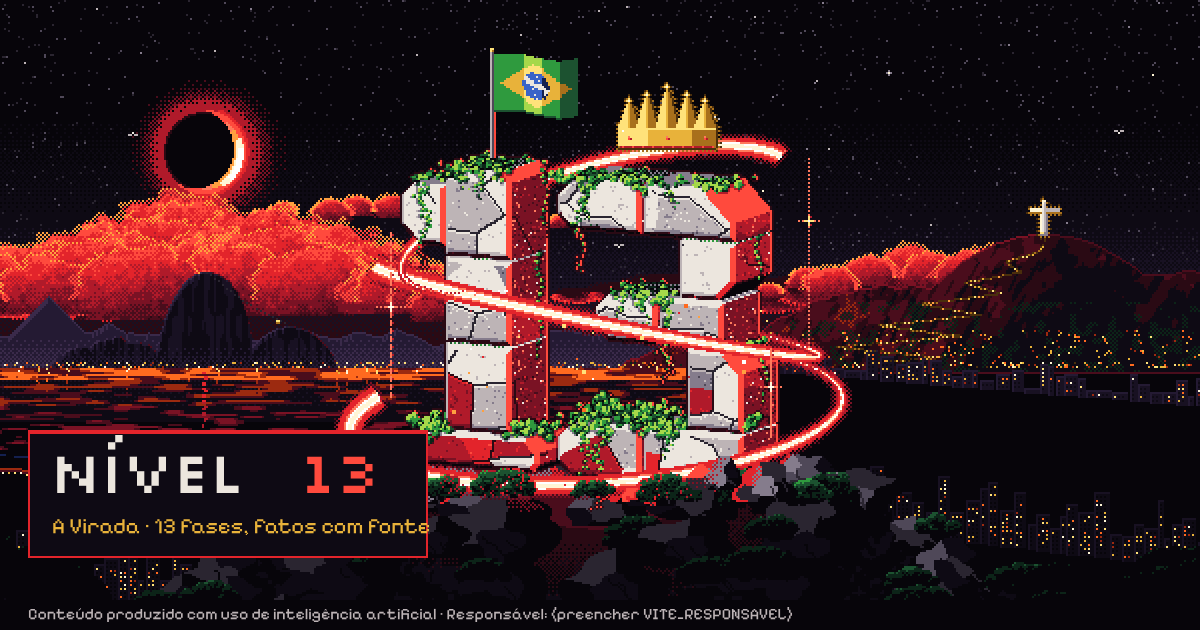
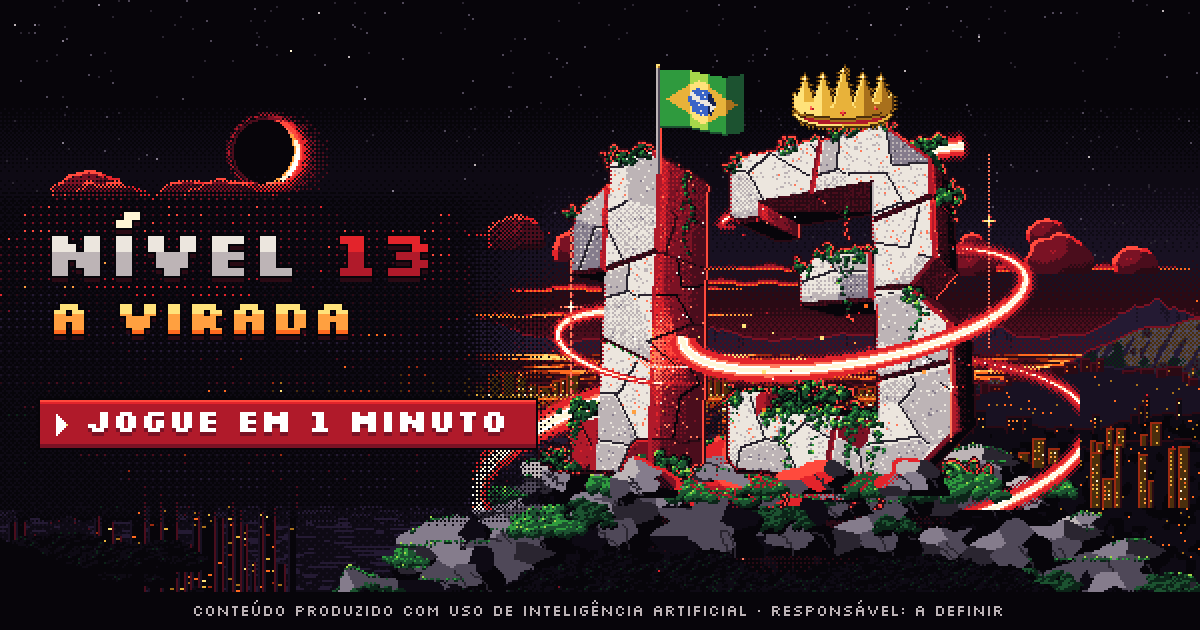
Prévia do link (og.png) com o 13 final, título, convite e rodapé legal; scripts para regenerar
Claude-Session: https://claude.ai/code/session_0165ZqKdQ2bY4744cygyd8X8

diff --git a/src/ui/install/copy.ts b/src/ui/install/copy.ts
@@ -20,8 +20,8 @@ const DONE_HINT = 'O 13 aparece entre os seus apps.'
 export const COPY: Record<Variant, SheetCopy> = {
   ios: {
     eyebrow: 'Jogue como app',
-    title: 'Instale o Nível 13',
-    lede: 'Três toques e o jogo abre da tela inicial, em tela cheia.',
+    title: 'Instale o 13',
+    lede: 'Três toques e o 13 abre da tela inicial.',
     steps: [
       { text: 'Toque em Compartilhar', icon: 'share', hint: 'Na barra do navegador, embaixo ou no alto.' },
       { text: 'Toque em Adicionar à Tela de Início', icon: 'add', hint: 'Role a lista se não aparecer.' },
@@ -30,8 +30,8 @@ export const COPY: Record<Variant, SheetCopy> = {
   },
   ios26: {
     eyebrow: 'Jogue como app',
-    title: 'Instale o Nível 13',
-    lede: 'Três toques e o jogo abre da tela inicial, em tela cheia.',
+    title: 'Instale o 13',
+    lede: 'Três toques e o 13 abre da tela inicial.',
     steps: [
       { text: 'Toque em ⋯ e em Compartilhar', icon: 'share', hint: 'O ⋯ fica ao lado do endereço.' },
       { text: 'Toque em Adicionar à Tela de Início', icon: 'add', hint: 'Role a lista se não aparecer.' },
@@ -40,8 +40,8 @@ export const COPY: Record<Variant, SheetCopy> = {
   },
   android: {
     eyebrow: 'Jogue como app',
-    title: 'Instale o Nível 13',
-    lede: 'Três toques e o jogo abre da tela inicial, em tela cheia.',
+    title: 'Instale o 13',
+    lede: 'Três toques e o 13 abre da tela inicial.',
     steps: [
       { text: 'Toque no menu do navegador', icon: 'kebab', hint: 'Os três pontinhos, no alto à direita.' },
       { text: 'Toque em Instalar app', icon: 'add', hint: 'Ou em Adicionar à tela inicial.' },
@@ -51,7 +51,7 @@ export const COPY: Record<Variant, SheetCopy> = {
   'inapp-ios': {
     eyebrow: 'Primeiro passo',
     title: 'Abra no Safari',
-    lede: 'Dentro do WhatsApp ou do Instagram não dá para instalar.',
+    lede: 'Dentro do WhatsApp ou Instagram não dá para instalar.',
     steps: [
       { text: 'Toque no menu do app', icon: 'meatball', hint: 'Os três pontinhos, no alto.' },
       { text: 'Toque em Abrir no Safari', icon: 'compass', hint: 'Ou em Abrir no navegador.' },
@@ -61,7 +61,7 @@ export const COPY: Record<Variant, SheetCopy> = {
   'inapp-android': {
     eyebrow: 'Primeiro passo',
     title: 'Abra no Chrome',
-    lede: 'Dentro do WhatsApp ou do Instagram não dá para instalar.',
+    lede: 'Dentro do WhatsApp ou Instagram não dá para instalar.',
     steps: [
       { text: 'Toque no menu do app', icon: 'kebab', hint: 'Os três pontinhos, no alto.' },
       { text: 'Toque em Abrir no Chrome', icon: 'compass', hint: 'Ou em Abrir no navegador.' },

diff --git a/scripts/make-og.py b/scripts/make-og.py
@@ -1,0 +1,170 @@
+#!/usr/bin/env python3
+"""Compõe public/og.png (1200×630, prévia do link no WhatsApp) em pixel nativo.
+
+Entrada: um still da cena do título gerado por renderHeroStill (src/scene) em 1560×630, que sai
+ampliado ×2. Para gerar o still com o dev server rodando (pnpm dev):
+    node scripts/og-still.cjs /tmp/still-1560.png
+Depois:
+    python3 scripts/make-og.py /tmp/still-1560.png            (escreve public/og.png)
+    python3 scripts/make-og.py /tmp/still-1560.png --out X.png
+
+A composição é feita na grade lógica (600×315): recorte com o 13 à direita do centro, painel
+escuro pontilhado atrás do texto (nada mais claro que night atrás de interface), título em
+Silkscreen sem antialias, CTA em faixa vermelha com ▶ e rodapé com o rótulo de IA e o responsável
+(o texto exato de CONFIG.aiLabel e responsavelText() com VITE_RESPONSAVEL). Sai ×2 com vizinho
+mais próximo. Só cores de src/lib/palette.ts.
+"""
+
+from __future__ import annotations
+
+import argparse
+import pathlib
+import re
+
+from PIL import Image, ImageDraw, ImageFont
+
+ROOT = pathlib.Path(__file__).resolve().parent.parent
+FONT = ROOT / 'node_modules/@fontsource/silkscreen/files'
+
+# Texto legal: o mesmo que o site mostra (src/config.ts) com VITE_RESPONSAVEL da Vercel.
+RESPONSAVEL = 'a definir'
+
+
+def load_palette():
+    src = (ROOT / 'src/lib/palette.ts').read_text()
+    block = src.split('export const PALETTE = {', 1)[1].split('}', 1)[0]
+    return {k: tuple(int(h[i:i + 2], 16) for i in (0, 2, 4)) for k, h in re.findall(r'(\w+):\s*0x([0-9a-fA-F]{6})', block)}
+
+
+def ai_label():
+    src = (ROOT / 'src/config.ts').read_text()
+    return re.search(r"aiLabel:\s*'([^']+)'", src).group(1)
+
+
+PAL = load_palette()
+BAYER4 = [[0, 8, 2, 10], [12, 4, 14, 6], [3, 11, 1, 9], [15, 7, 13, 5]]
+
+
+def bayer(x, y):
+    return (BAYER4[y & 3][x & 3] + 0.5) / 16
+
+
+def text_mask(txt, size, bold=True):
+    """Máscara 1-bit do texto (Silkscreen em múltiplo de 8 = pixels inteiros)."""
+    ft = ImageFont.truetype(str(FONT / f'silkscreen-latin-{700 if bold else 400}-normal.woff'), size)
+    l, t, r, b = ImageDraw.Draw(Image.new('1', (1, 1))).textbbox((0, 0), txt, font=ft)
+    im = Image.new('1', (r - l + 2, b - t + 2), 0)
+    d = ImageDraw.Draw(im)
+    d.fontmode = '1'
+    d.text((-l, -t), txt, font=ft, fill=1)
+    return im
+
+
+def stamp(px, W, H, m, x0, y0, color, outline='void', shadow='blood0', sh=1):
+    """Texto com sombra de sh px para baixo e contorno de 1 px (vizinhança 8 nos cantos)."""
+    w, h = m.size
+    mp = m.load()
+    on = {(x, y) for y in range(h) for x in range(w) if mp[x, y]}
+    if shadow:
+        for x, y in on:
+            for k in range(1, sh + 1):
+                X, Y = x0 + x, y0 + y + k + 1
+                if 0 <= X < W and 0 <= Y < H:
+                    px[X, Y] = PAL[shadow]
+    if outline:
+        for x, y in on:
+            for dx in (-1, 0, 1):
+                for dy in (-1, 0, 1):
+                    if (x + dx, y + dy) not in on:
+                        X, Y = x0 + x + dx, y0 + y + dy
+                        if 0 <= X < W and 0 <= Y < H:
+                            px[X, Y] = PAL[outline]
+    for x, y in on:
+        c = color(x, y) if callable(color) else color
+        px[x0 + x, y0 + y] = PAL[c]
+
+
+def compose(still: Image.Image) -> Image.Image:
+    s = still.convert('RGB')
+    # o still sai ×2: volta para a grade lógica sem perda (pega 1 de cada 2)
+    s = s.resize((s.width // 2, s.height // 2), Image.NEAREST)
+    W, H = 600, 315
+    im = s.crop((0, 0, W, H))
+    px = im.load()
+
+    # painel escuro atrás do texto: pontilhado void/night que some para a direita e para baixo
+    for y in range(H):
+        for x in range(W):
+            fx = 1.0 if x < 230 else max(0.0, 1 - (x - 230) / 50)
+            fy = 1.0 if 100 <= y <= 250 else max(0.0, 1 - min(abs(y - 100), abs(y - 250)) / 14)
+            k = fx * fy
+            if k > 0 and bayer(x, y) < k * 0.92:
+                px[x, y] = PAL['void'] if bayer(x + 1, y + 2) < 0.6 else PAL['night']
+
+    # título
+    # uma máscara só para manter a linha de base; o '13' é colorido pela coluna
+    m1 = text_mask('NÍVEL 13', 32)
+    ft = ImageFont.truetype(str(FONT / 'silkscreen-latin-700-normal.woff'), 32)
+    cut = round(ImageDraw.Draw(Image.new('1', (1, 1))).textlength('NÍVEL ', font=ft))
+    top = m1.size[1] - 32  # altura do acento acima das maiúsculas
+
+    def title(x, y):
+        yy = y - top
+        if x >= cut - 2:
+            return 'redHot' if yy < 6 else 'red' if yy < 18 else 'crimson'
+        return 'sparkle' if yy < 6 else 'stoneHi' if yy < 18 else 'stone3'
+
+    x0, y0 = 22, 108
+    stamp(px, W, H, m1, x0, y0 - top, title, sh=2)
+    m2 = text_mask('A VIRADA', 24)
+    stamp(px, W, H, m2, x0 + 2, y0 + 44, lambda x, y: 'goldHi' if y < 5 else 'emberBright' if y < 13 else 'ember', sh=2)
+
+    # CTA: faixa vermelha com ▶ (o menu do HUD)
+    cta = text_mask('JOGUE EM 1 MINUTO', 16)
+    bx, by = x0 - 2, y0 + 92
+    bw, bh = cta.size[0] + 34, cta.size[1] + 12
+    for y in range(by, by + bh):
+        for x in range(bx, bx + bw):
+            k = 'crimson'
+            if y == by:
+                k = 'redHot'
+            elif y == by + 1:
+                k = 'red'
+            elif y >= by + bh - 2:
+                k = 'crimsonDeep'
+            px[x, y] = PAL[k]
+    for x in range(bx - 1, bx + bw + 1):
+        px[x, by - 1] = PAL['void']
+        px[x, by + bh] = PAL['void']
+    for y in range(by, by + bh):
+        px[bx - 1, y] = PAL['void']
+        px[bx + bw, y] = PAL['void']
+    # ▶ de 7 px
+    tx, ty = bx + 8, by + bh // 2
+    for i in range(6):
+        for j in range(-5 + i, 6 - i):
+            px[tx + i, ty + j] = PAL['white'] if i < 5 else PAL['goldHi']
+    stamp(px, W, H, cta, bx + 22, by + 6, 'white', outline=None, shadow='crimsonDeep', sh=1)
+
+    # rodapé legal: faixa void e texto Silkscreen 8 (1 px de fonte = 1 px lógico)
+    foot = f'{ai_label()} · Responsável: {RESPONSAVEL}'
+    fm = text_mask(foot, 8, bold=False)
+    fy0 = H - fm.size[1] - 5
+    for y in range(fy0 - 6, H):
+        for x in range(W):
+            if y >= fy0 - 3 or bayer(x, y) < (y - (fy0 - 6)) / 3:
+                px[x, y] = PAL['void']
+    fx0 = (W - fm.size[0]) // 2
+    stamp(px, W, H, fm, fx0, fy0, 'stone3', outline=None, shadow=None)
+    assert fm.size[0] <= W - 8, f'rodapé largo demais: {fm.size[0]}'
+    return im.resize((W * 2, H * 2), Image.NEAREST)
+
+
+if __name__ == '__main__':
+    ap = argparse.ArgumentParser()
+    ap.add_argument('still')
+    ap.add_argument('--out', default=str(ROOT / 'public/og.png'))
+    a = ap.parse_args()
+    out = compose(Image.open(a.still))
+    out.save(a.out, optimize=True)
+    print('og em', a.out, out.size)
